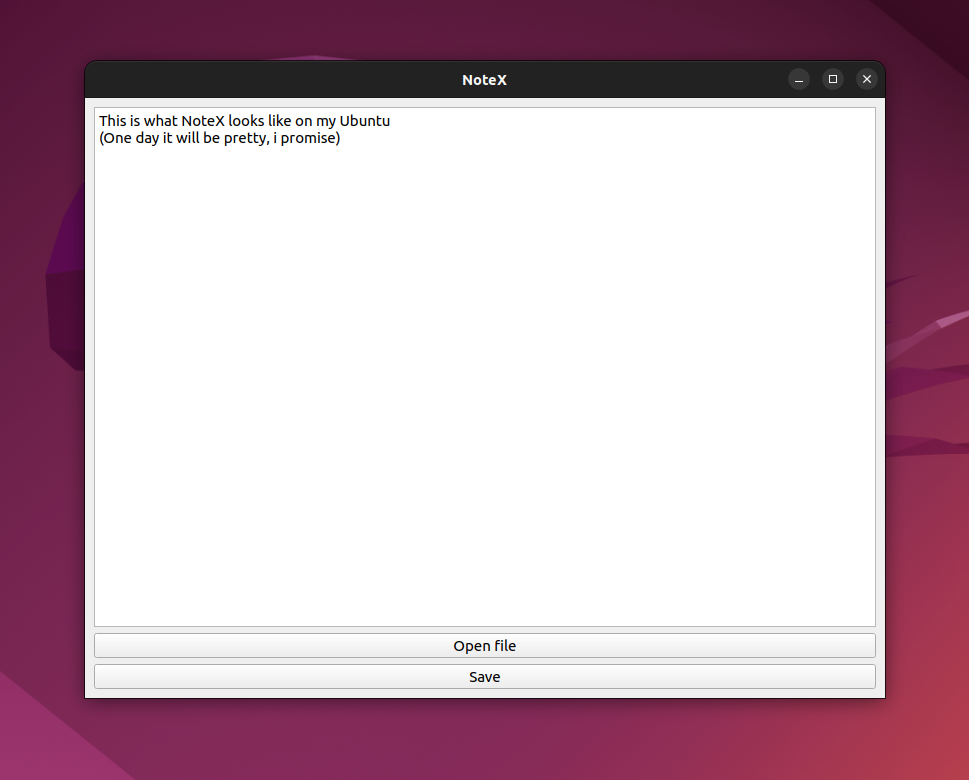
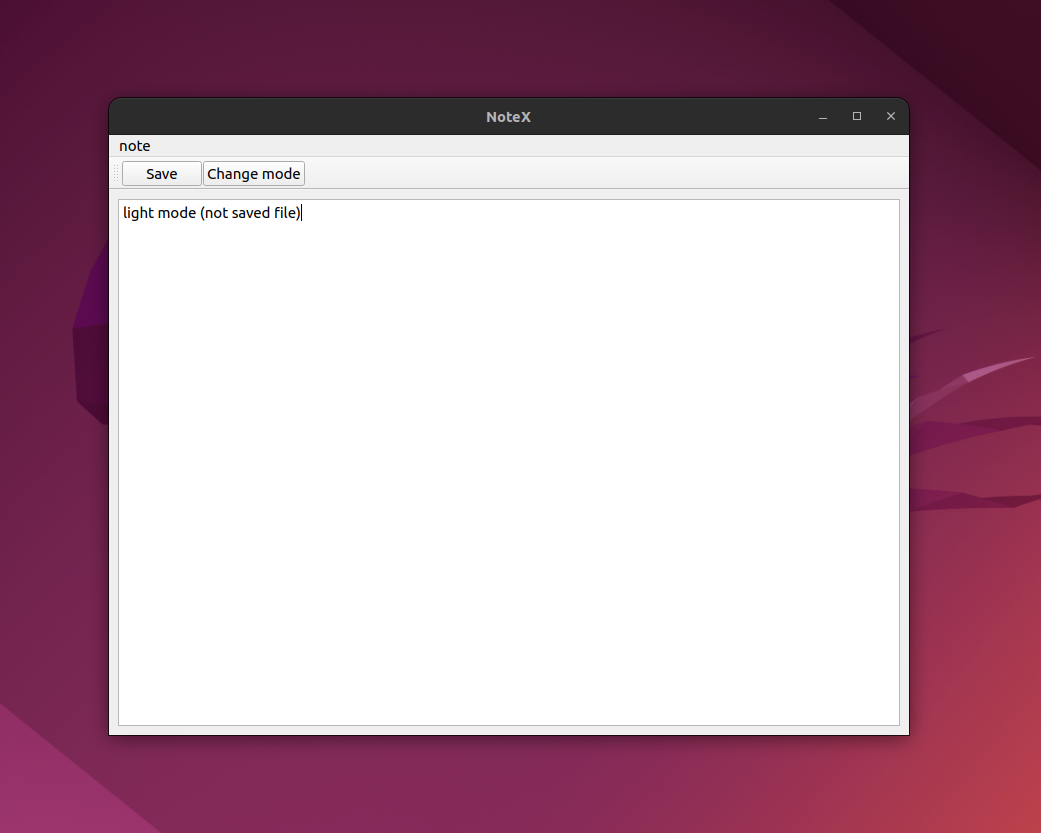
v1.1

diff --git a/ui.py b/ui.py
@@ -6,6 +6,11 @@ class UiClass(QMainWindow):
     def __init__(self):
         super().__init__()
 
+        #current file
+        self.current_file = None
+
+        self.dark_mode = False
+
         self.initUI()
 
     def initUI(self):
@@ -34,6 +39,11 @@ class UiClass(QMainWindow):
         save_button.clicked.connect(self.save_note)
         toolbar.addWidget(save_button)
 
+        #dark mode
+        dark_mode_button = QPushButton('Change mode', self)
+        dark_mode_button.clicked.connect(self.toggle_dark_mode)
+        toolbar.addWidget(dark_mode_button)
+
 
         #navbar menu
         menu_bar = self.menuBar()
@@ -59,18 +69,25 @@ class UiClass(QMainWindow):
     
     #save button function
     def save_note(self):
-        options = QFileDialog.Options()
-        options != QFileDialog.DontUseNativeDialog 
-        file_name, _ = QFileDialog.getSaveFileName(self, "Save file", ".txt", "Text files (*.txt);;All files (*)", options=options)
-        if file_name:
-            with open(file_name, 'w') as file:
+        if self.current_file is None:
+            options = QFileDialog.Options()
+            options != QFileDialog.DontUseNativeDialog 
+            file_name, _ = QFileDialog.getSaveFileName(self, "Save file", ".txt", "Text files (*.txt);;All files (*)", options=options)
+            if file_name:
+                with open(file_name, 'w') as file:
+                    file.write(self.text_edit.toPlainText())
+                self.current_file = file_name
+                self.update_window_title()
+        else:
+            with open(self.current_file, 'w') as file:
                 file.write(self.text_edit.toPlainText())
+            self.update_window_title()
     
     
 
     ### Alert ### 
 
-#check document
+    #check document
     def check_modified_document(self):
         if self.text_edit.document().isModified():
 
@@ -108,3 +125,26 @@ class UiClass(QMainWindow):
         if file_name:
             with open(file_name, 'r') as file:
                 self.text_edit.setPlainText(file.read())
+                self.current_file = file_name
+                self.update_window_title()
+
+#dark mode
+    def toggle_dark_mode(self):
+        self.dark_mode = not self.dark_mode
+        self.update_theme()
+
+    def update_theme(self):
+        if self.dark_mode:
+            self.setStyleSheet("background-color: black; color: lightgray;")
+            self.text_edit.setStyleSheet("background-color: black; color: lightgray")
+    
+#normal
+        else:
+            self.setStyleSheet("background-color: white; color: black;")
+            self.text_edit.setStyleSheet("background-color: white; color: black")
+
+    def update_window_title(self):
+        if self.current_file:
+            self.setWindowTitle(f'NoteX - {self.current_file}')
+        else:
+            self.setWindowTitle('NoteX')

diff --git a/readme.md b/readme.md
@@ -1,4 +1,4 @@
-# NoteX v1.0
+# NoteX v1.1
 
 A Simple Note App
 
@@ -6,14 +6,23 @@ A Simple Note App
 
 NoteX is currently a straightforward text editor with aspirations to evolve into a more modern and advanced writing application. The motivation behind its creation is quite simple; I needed an application to take notes for my studies that works on Ubuntu, doesn't require any subscriptions, or involve payments. So, I thought, "Why not create it myself?"
 
-## v1.0
-At its current version (v1.0), NoteX is essentially a simple notepad with the following features:
+## v1.1
+At its current version (v1.1), NoteX is essentially a simple notepad with the following features:
 
 - Write notes
 - Open and edit .txt files
 - Save files
+- Light/Dark mode
+- Popping alert when you forget to save your note
+- It shows name of the open file
+- Better design (a little)
+- Navbar file menu ('note' button)
 
 ![plot](https://github.com/dominikstas/noteX/blob/main/ss/1.png)
+
+
+![plot](https://github.com/dominikstas/noteX/blob/main/ss/2.png)
+
 
 That's it for now. However, future updates will introduce more features, and the design will undoubtedly become more aesthetically pleasing.
 
